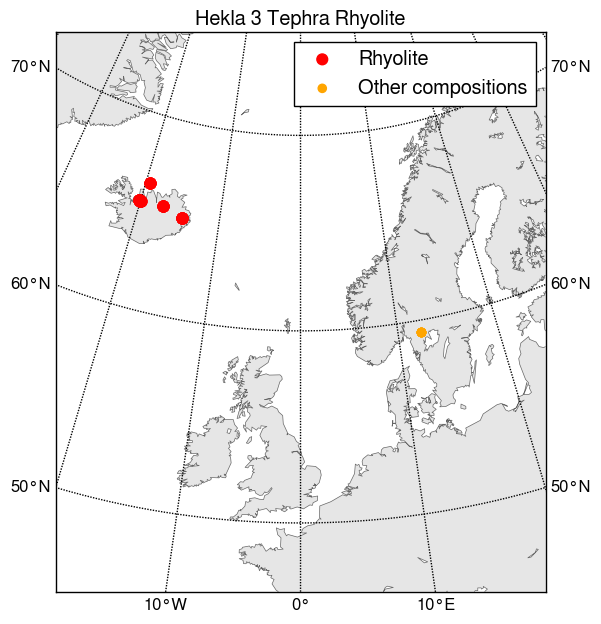
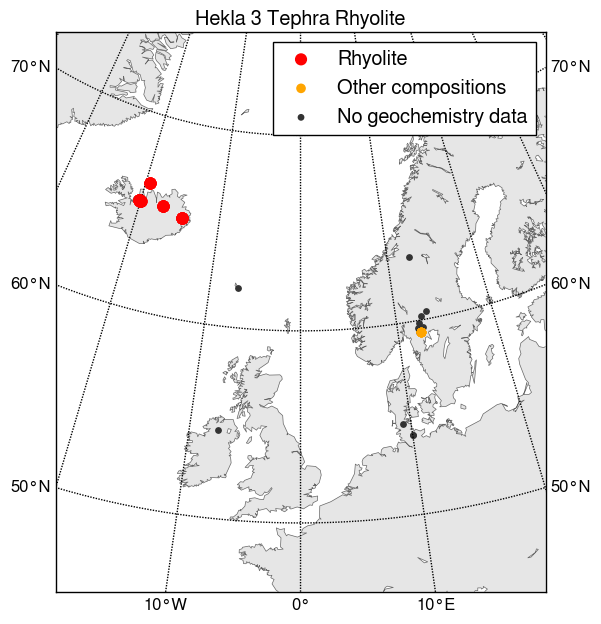
Added compilation of sites without geochemistry available from Lawson et al (2012)

diff --git a/plot_hekla3and4_distal_geochemistry.py b/plot_hekla3and4_distal_geochemistry.py
@@ -12,15 +12,18 @@ def main():
     """
     # Load data
     df = pd.read_csv('hekla3and4_distal_geochemistry.csv')
+    df = df.append(pd.read_csv('hekla3and4_without_geochemistry.csv'),
+                   ignore_index=True)
     df['classification'] = [classify_composition(x) for x in df['SiO2']]
+    df.to_csv('/tmp/df.csv')
 
     for tephra in ['Hekla 4 Tephra', 'Hekla 3 Tephra']:
         for classification in ['Rhyolite', 'Dacite', 'Andesite']:
 
             # Get coordinates
-            (lon_found, lat_found,
-             lon_absent, lat_absent) = get_coordinates(df, tephra,
-                                                       classification)
+            coords = get_coordinates(df, tephra, classification)
+            (lon_found, lat_found, lon_absent, lat_absent,
+             lon_no_geochem, lat_no_geochem) = coords
 
             # Create figure
             print("Plotting {} {}".format(tephra, classification))
@@ -29,11 +32,14 @@ def main():
 
             # Plot sample locations
             m.scatter(lon_found, lat_found, latlon=True,
-                      color='red', s=60, zorder=3,
+                      color='red', s=60, zorder=4,
                       label='{}'.format(classification))
             m.scatter(lon_absent, lat_absent, latlon=True,
-                      color='orange', s=35, zorder=2,
+                      color='orange', s=35, zorder=3,
                       label='Other compositions'.format(classification))
+            m.scatter(lon_no_geochem, lat_no_geochem, latlon=True,
+                      color='0.2', s=15, zorder=2,
+                      label='No geochemistry data'.format(classification))
 
             # Add decoration
             plt.legend(loc='upper right', scatterpoints=1)
@@ -48,6 +54,9 @@ def classify_composition(sio2):
     """
     Simple classification based on wt% SiO2.
     """
+    if np.isnan(sio2):
+        return 'No geochemistry data'
+
     if sio2 > 69:
         return 'Rhyolite'
     elif sio2 > 63:
@@ -65,19 +74,31 @@ def get_coordinates(df, tephra, classification):
     Prepare lists of latitude and longitude of places where tephra
     is present or absent.
     """
+    my_tephra = df['tephra_name'] == tephra
+    my_classification = df['classification'] == classification
+    geochem_missing = df['classification'] == 'No geochemistry data'
+
     # Locations where composition is found
-    found = ((df['tephra_name'] == tephra) &
-             (df['classification'] == classification))
+    found = np.logical_and(my_tephra, my_classification)
     lon_found = df.loc[found, 'longitude'].tolist()
     lat_found = df.loc[found, 'latitude'].tolist()
 
-    # Get locations where composition is absent
-    absent = ((df['tephra_name'] == tephra) &
-              (df['classification'] != classification))
+    # Locations where other composition is found
+    absent = np.logical_and(
+        my_tephra, np.logical_not(
+            np.logical_or(my_classification, geochem_missing)))
     lon_absent = df.loc[absent, 'longitude'].tolist()
     lat_absent = df.loc[absent, 'latitude'].tolist()
 
-    return lon_found, lat_found, lon_absent, lat_absent
+    # Get locations with no geochemistry data
+    no_geochem = np.logical_and(my_tephra, geochem_missing)
+    lon_no_geochem = df.loc[no_geochem, 'longitude'].tolist()
+    lat_no_geochem = df.loc[no_geochem, 'latitude'].tolist()
+
+    coords = (lon_found, lat_found, lon_absent, lat_absent,
+              lon_no_geochem, lat_no_geochem)
+
+    return coords
 
 
 def prepare_basemap():
